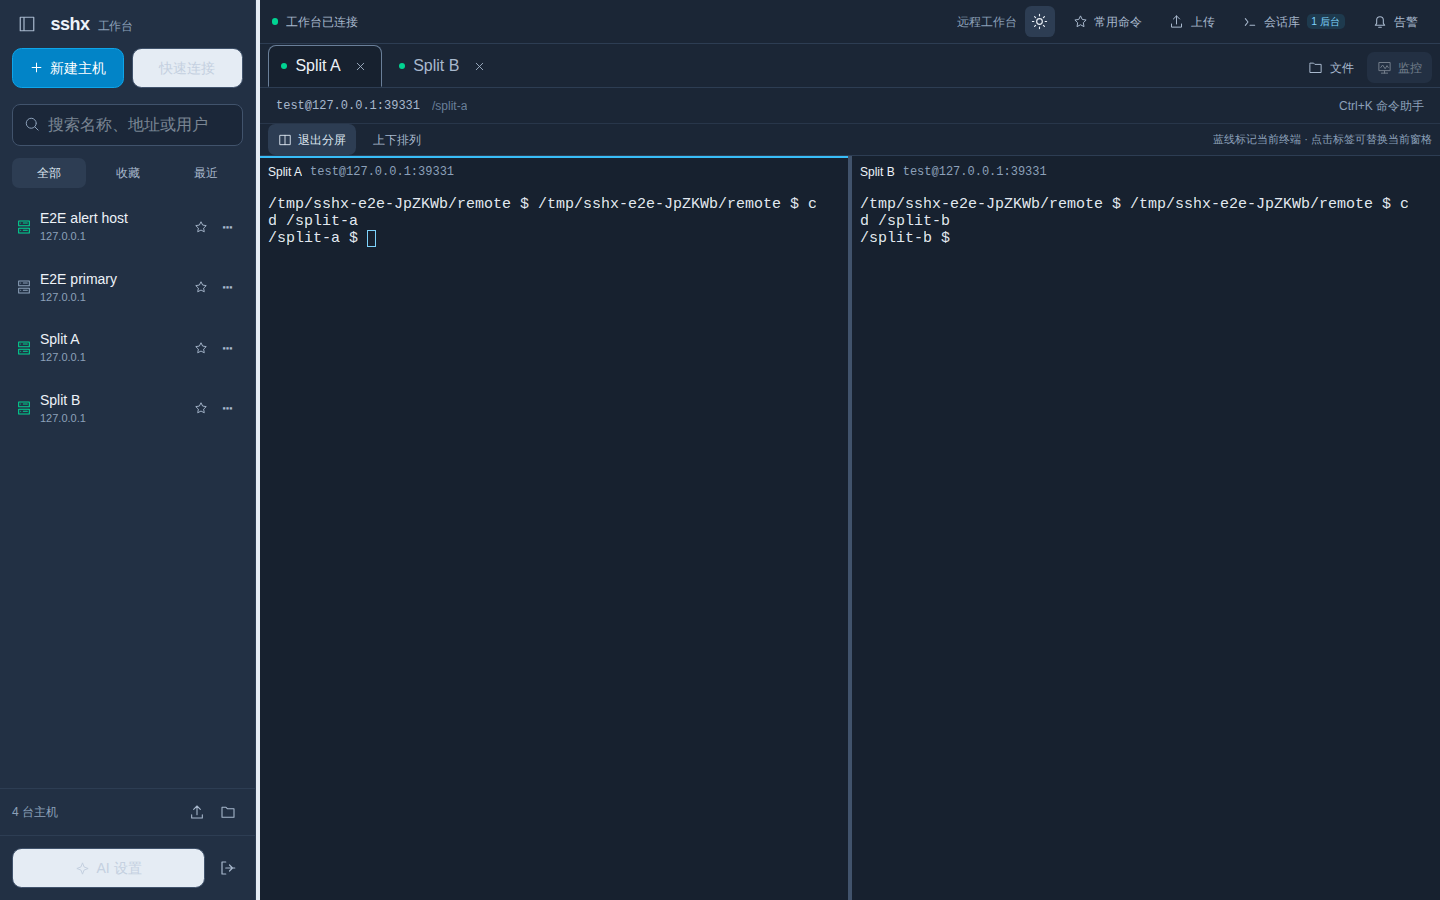
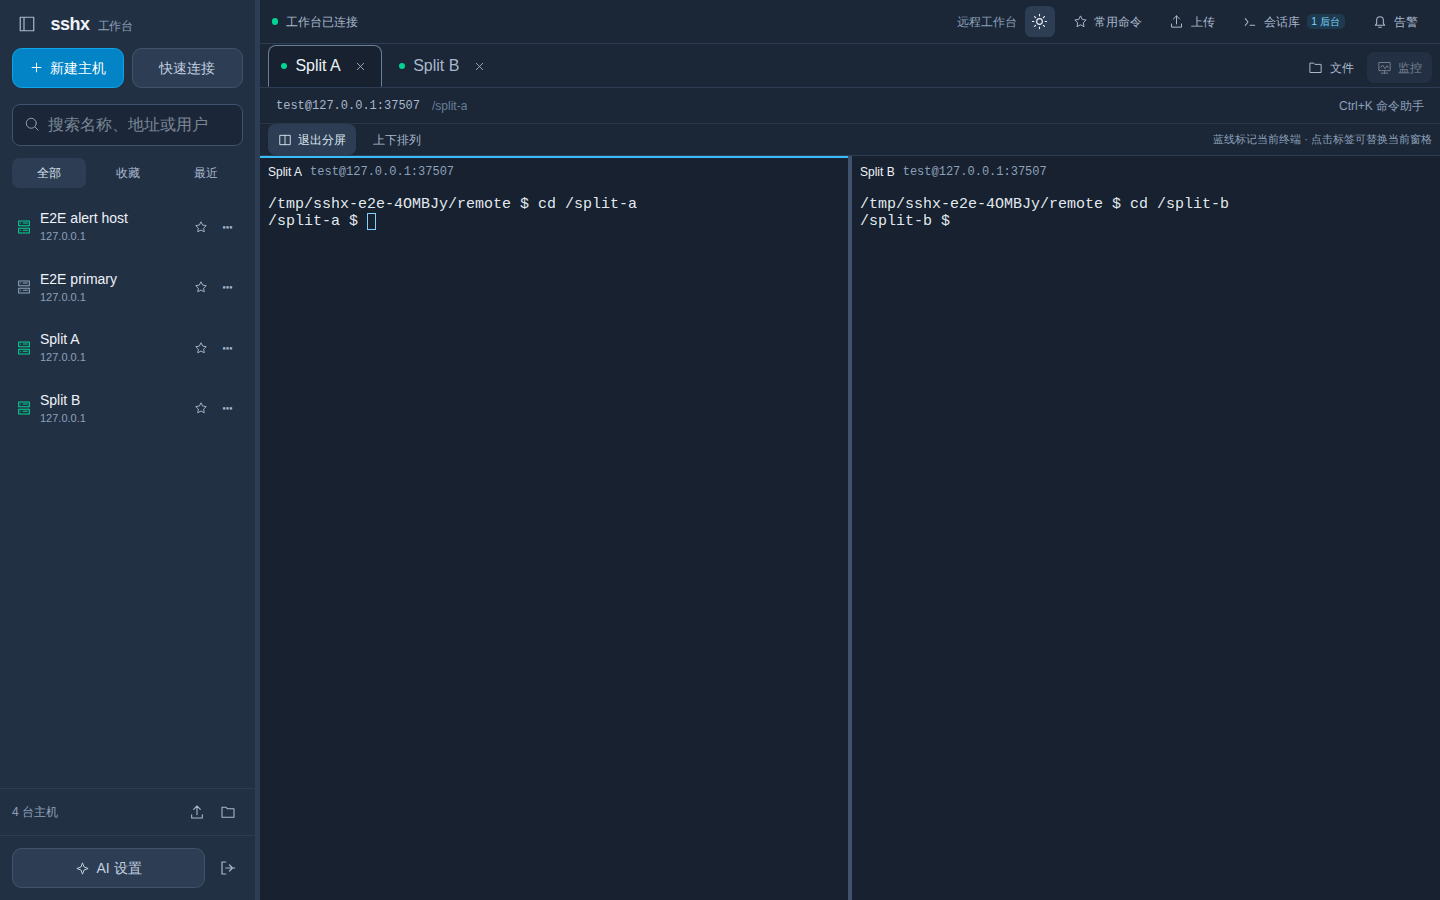
docs: record 0.2.1 release checksums and final workspace screenshots
Link permanent downloads and successful Linux/Windows verification. Document real-device, browser-launch and session-recovery limits.

diff --git a/docs/PRODUCT_UPDATE.md b/docs/PRODUCT_UPDATE.md
@@ -1,6 +1,6 @@
 # 产品体验更新
 
-0.2.0 在现有会话、告警与 AI 流程上增加了以下日常使用能力。
+0.2.1 包含 0.2.0 的界面与工作流更新，并补齐被包装的私钥文件错误提示。在现有会话、告警与 AI 流程上增加了以下日常使用能力。
 
 ## 主题与分屏
 
@@ -67,6 +67,20 @@ Web Push 需要 HTTPS、支持的浏览器/PWA 和通知权限。在告警页主
 命令仅提供复制，始终由用户自行粘贴执行。解释和影响由模型生成，不作为安全验证或执行授权。默认不读取或发送终端上下文；勾选后最多附带最近 16 KiB，备用屏幕模式仍不允许读取。
 
 固定只读工具、人工处理和 trusted 三种工具权限沿用上一版边界。本版本未增加自动审批队列，也未增加自动执行 AI 命令。
+
+## 实际界面
+
+以下截图来自生产构建的 Chromium 验收，终端使用本机测试 SSH 服务。
+
+![浅色分屏](images/light-split.png)
+
+![深色分屏](images/dark-split.png)
+
+![常用命令与明确目标](images/command-library.png)
+
+![上传队列](images/upload-queue.png)
+
+手机浅色只读终端截图见 [mobile-light.png](images/mobile-light.png)。
 
 ## 工程与验证
 

diff --git a/README.md b/README.md
@@ -2,7 +2,7 @@
 
 面向个人的 SSH 工作台：Go 服务端保持会话，React + xterm.js 提供浏览器终端，配套 SFTP、监控、告警和 AI 工具。
 
-0.2.0 增加明暗主题、双终端分屏、常用命令收藏、可取消重试的上传队列，以及首次连接引导。保留会话管理、移动只读、告警、AI 助手与既有安全修复。变化见 [修订记录](docs/CHANGELOG.md)，使用说明见 [产品体验更新](docs/PRODUCT_UPDATE.md)。
+0.2.1 包含明暗主题、双终端分屏、常用命令收藏、可取消重试的上传队列，以及首次连接引导，并补齐连接错误提示。保留会话管理、移动只读、告警、AI 助手与既有安全修复。变化见 [修订记录](docs/CHANGELOG.md)，使用说明见 [产品体验更新](docs/PRODUCT_UPDATE.md)。
 
 [下载 Windows / Linux 版本](https://github.com/doux93/sshd/releases/latest) · [快速开始](docs/QUICKSTART.md)
 
